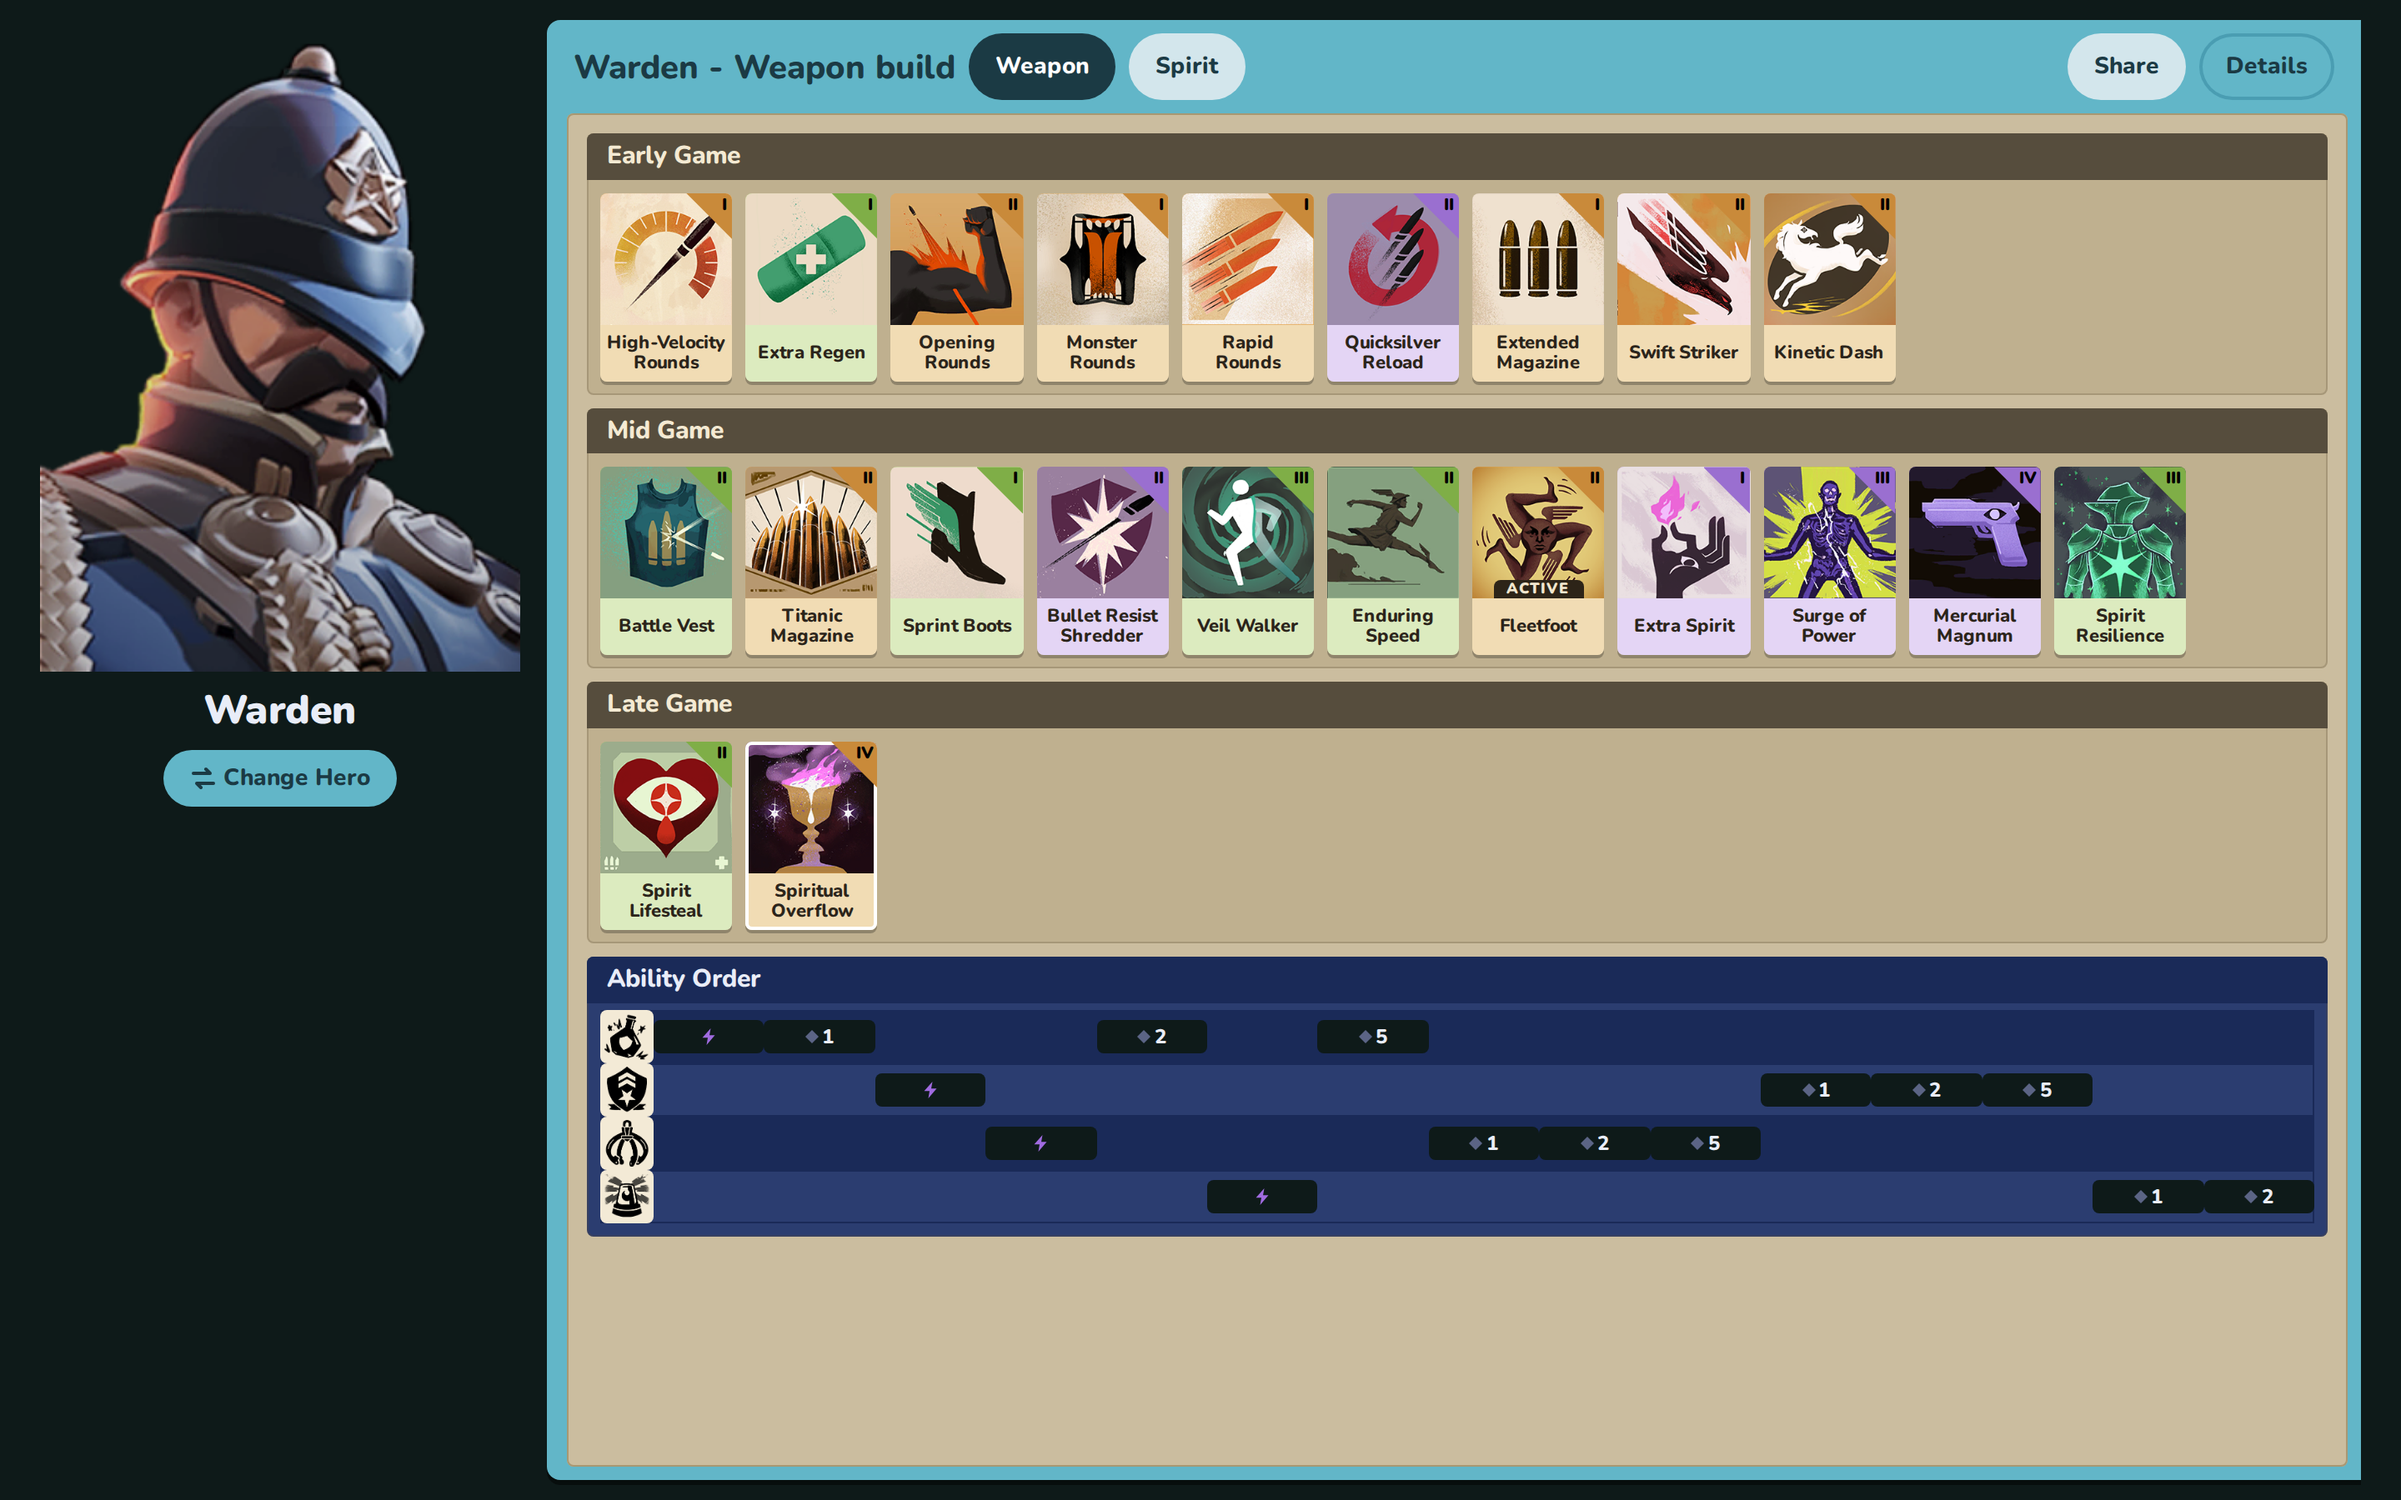
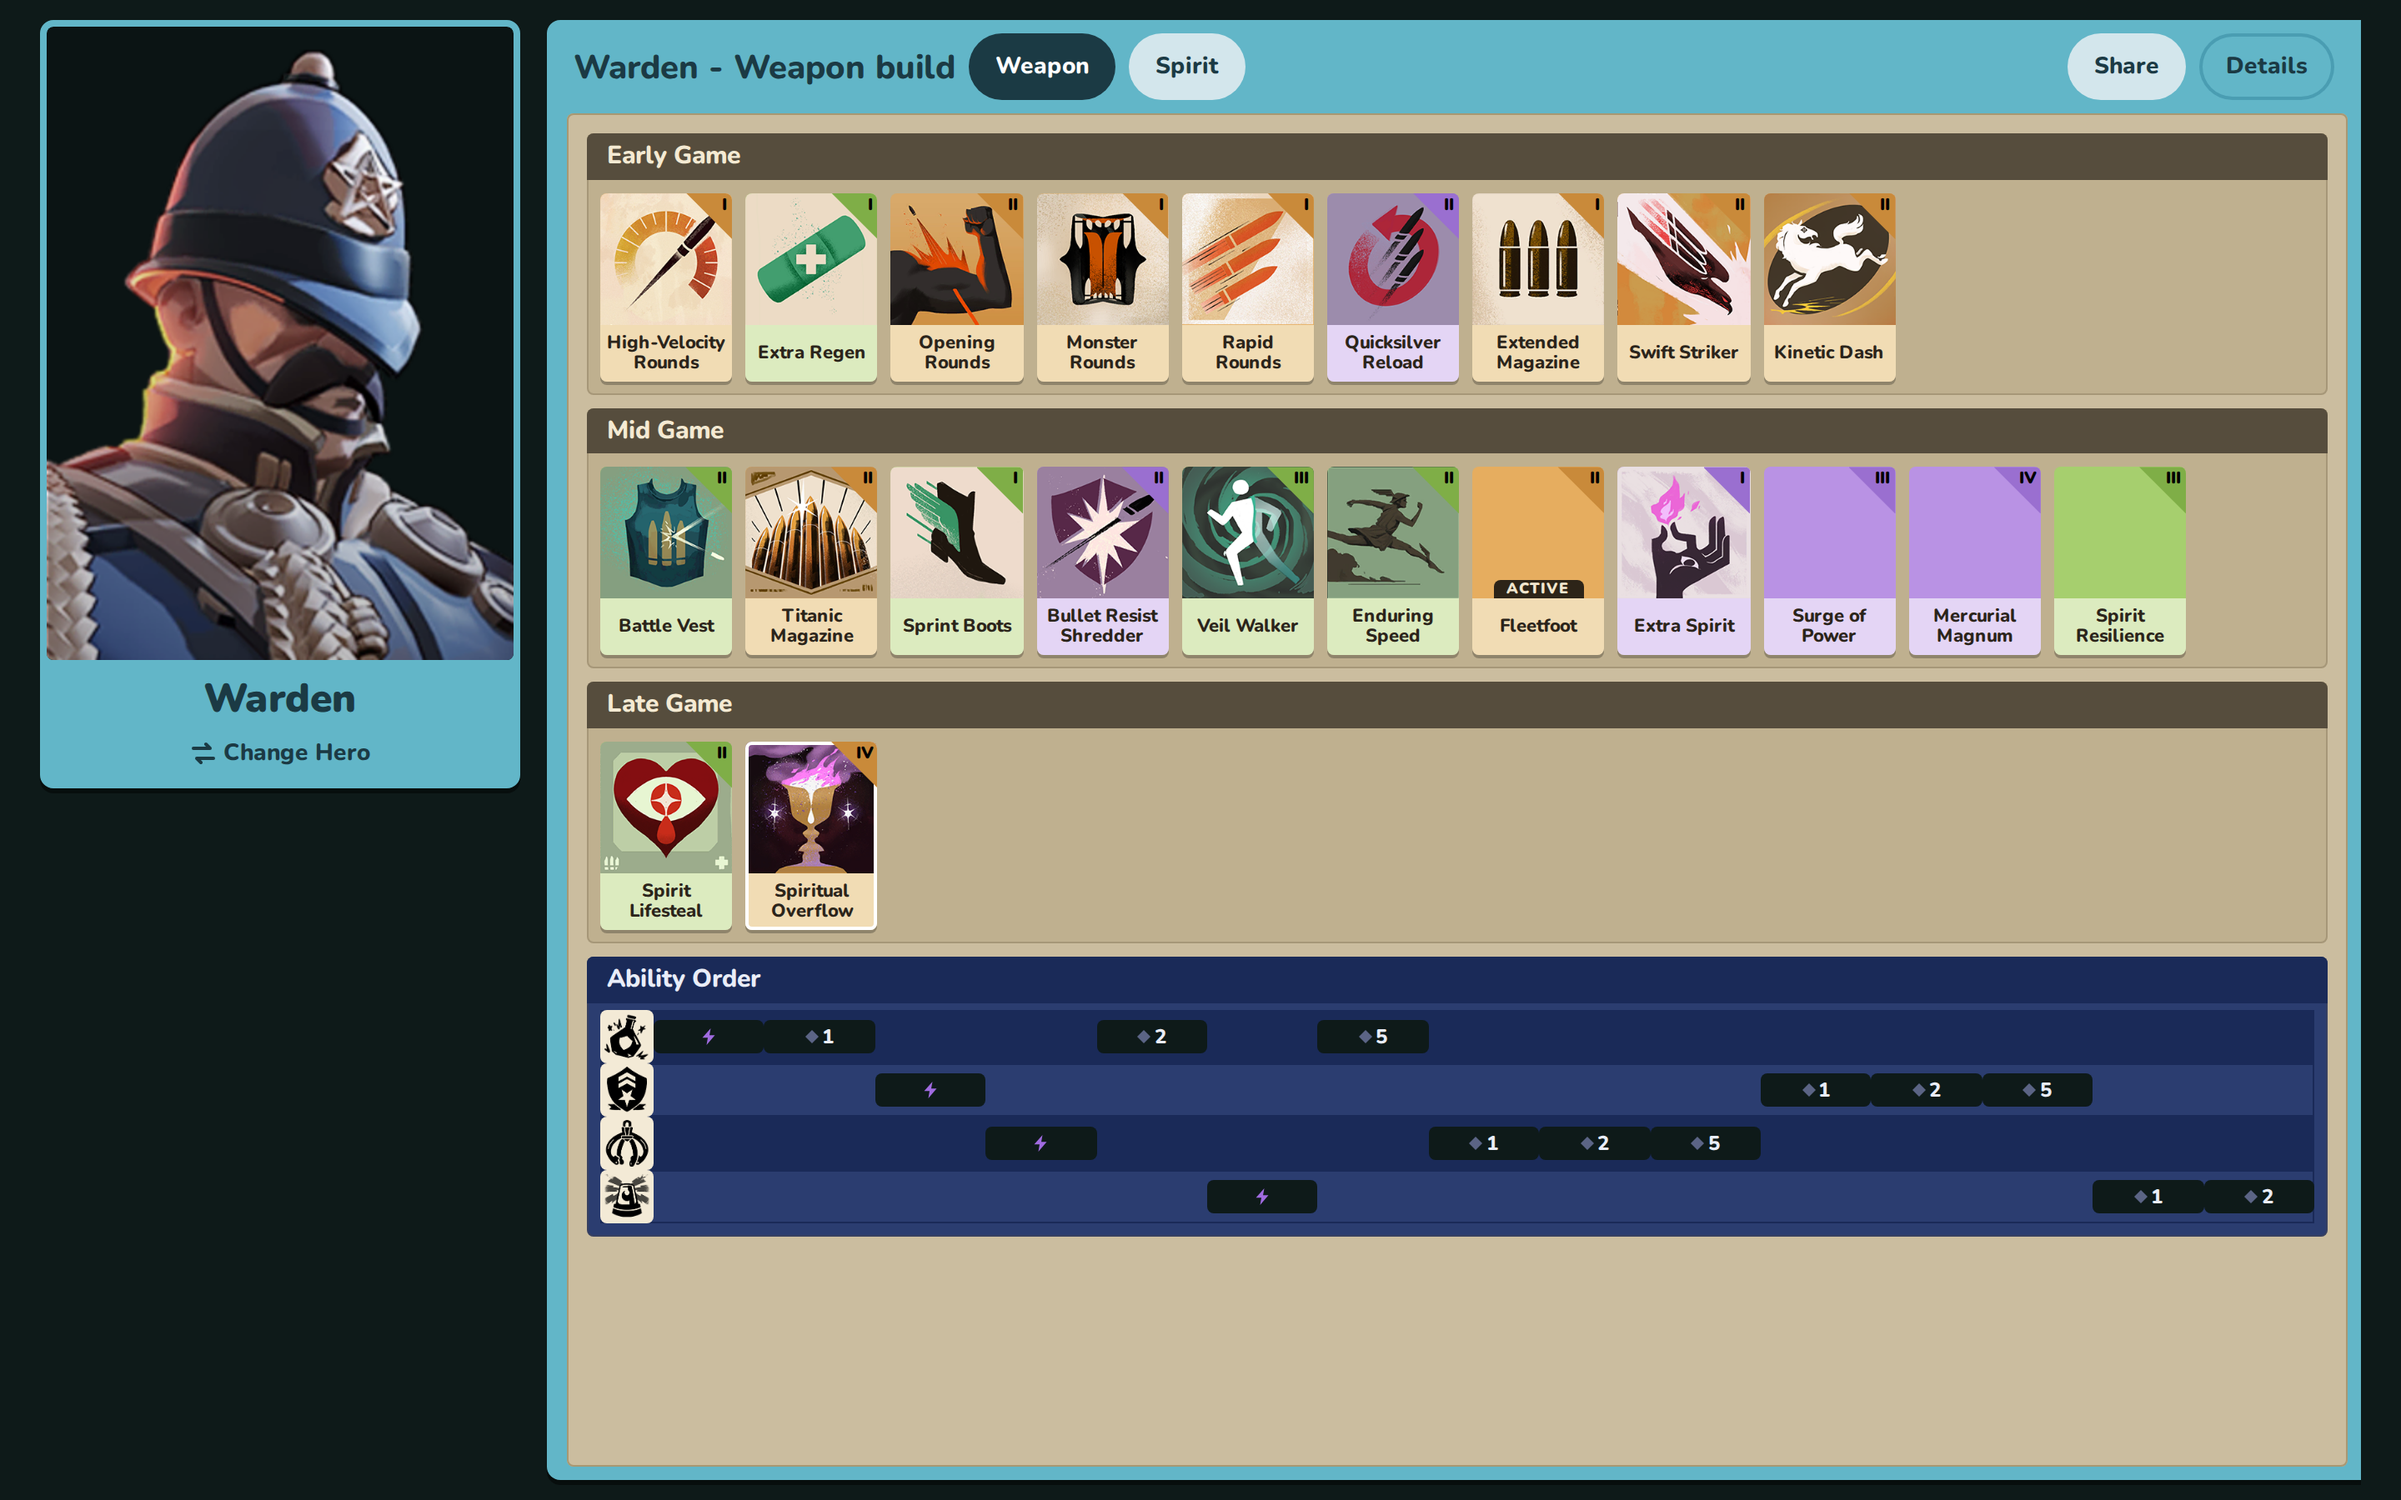
Frame hero as a portrait; grid check reads build's abilityOrder; record user verdict
Claude-Session: https://claude.ai/code/session_01FxWgKSVVYqBH25on5FHnfd

Changed region(s): [[0.0, 0.0, 0.2188, 0.56], [0.7188, 0.3111, 0.9375, 0.4044], [0.5938, 0.3111, 0.6875, 0.4044]]

diff --git a/src/index.css b/src/index.css
@@ -401,14 +401,19 @@ h3 {
 .hero-avatar {
   position: relative;
   overflow: visible;
+  width: 52px;
+  height: 52px;
+  border-radius: var(--radius-sm);
+  border: 4px solid var(--teal-ink);
+  box-shadow: var(--shadow-hard);
 }
 .hero-avatar img {
-  border-radius: var(--radius-full);
+  border-radius: 4px;
 }
 .hero-avatar .hero-cue {
   position: absolute;
-  right: -4px;
-  bottom: -4px;
+  right: -8px;
+  bottom: -8px;
   width: 20px;
   height: 20px;
   justify-content: center;
@@ -785,26 +790,33 @@ button.tile:hover {
     display: block;
     width: 100%;
     border-radius: var(--radius-md);
+    background: var(--teal);
+    border: 4px solid var(--teal);
+    overflow: hidden;
+    box-shadow: var(--shadow-hard-lg);
   }
   .hero-card img {
     display: block;
     width: 100%;
     height: auto;
-    max-height: 70vh;
+    max-height: 62vh;
     object-fit: contain;
+    background: var(--avatar-bg);
+    border-radius: var(--radius-sm);
   }
   .hero-card .hero-name {
     display: block;
     font-size: 24px;
     font-weight: 900;
-    padding: 8px 0;
-  }
-  .hero-card:hover .hero-name {
-    color: var(--teal);
+    padding: 8px 0 4px;
+    color: var(--teal-ink);
   }
   .hero-card .hero-cue {
-    padding: 8px 16px;
-    margin-bottom: 4px;
+    display: flex;
+    justify-content: center;
+    padding: 4px 16px 8px;
+    border-radius: 0;
+    background: transparent;
   }
   .hero-avatar {
     display: none;

diff --git a/src/components/BuildView.tsx b/src/components/BuildView.tsx
@@ -153,7 +153,11 @@ export function BuildView({
           })}
           <section className="row abilities" aria-label="Ability Order">
             <h2 className="row-head">Ability Order</h2>
-            <ol className="ap-grid" style={{ '--ap-cols': build.abilityOrder.length } as React.CSSProperties}>
+            <ol
+              className="ap-grid"
+              data-order={JSON.stringify(build.abilityOrder.map((s) => [s.ability.name, s.kind]))}
+              style={{ '--ap-cols': build.abilityOrder.length } as React.CSSProperties}
+            >
               {abilities.map((a) => (
                 <li key={a.id} className="ap-row" data-ability={a.name} aria-label={a.name}>
                   <span className="ap-icon">

diff --git a/docs/ui/DESIGN.md b/docs/ui/DESIGN.md
@@ -48,7 +48,10 @@ Round-4 eval, user's words: "The ability upgrade order has regressed; it should 
 image to change which hero you have selected-- make that more intuitive." Mobile: "Works".
 Superfluous / AI-made: "Works". Overall: "Its good, but not quite there yet."
 
-Round 5 (grid + hero cue): user's verdict on the new shots is pending; run the evaluator.
+Round-5 eval, user's words: ability grid "Works"; hero cue: "Put the hero image in a portrait or something
+to make it clear that it is changeable and not a static part of the page"; overall "Works".
+Round 6 answer: the hero is now framed as a portrait (teal frame, name plate and "Change Hero" strip inside
+it on desktop; square framed portrait with a swap badge on phone).
 
 ## Sources read
 
